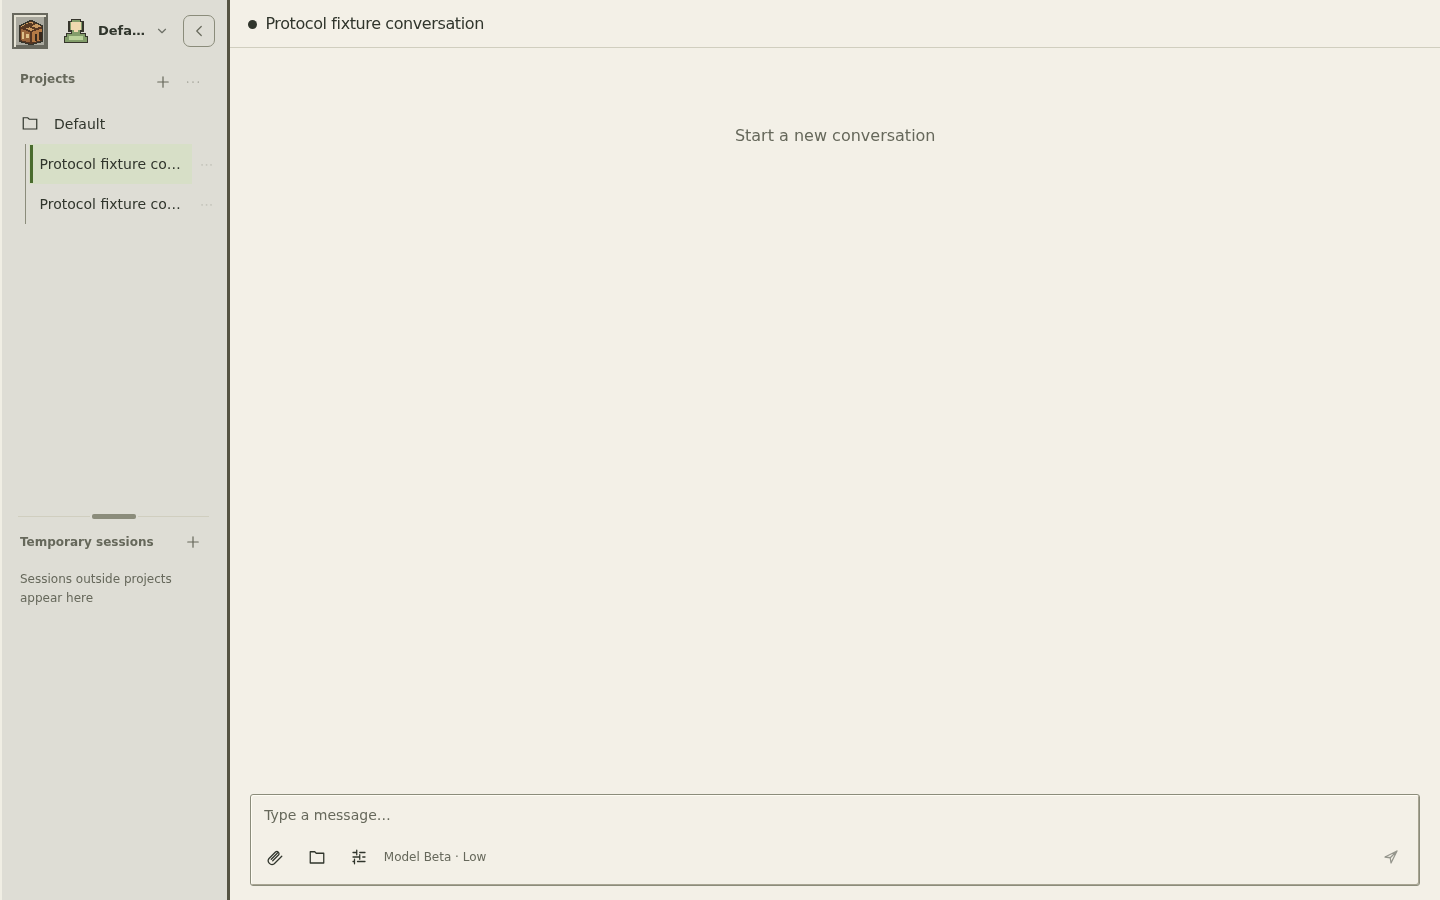
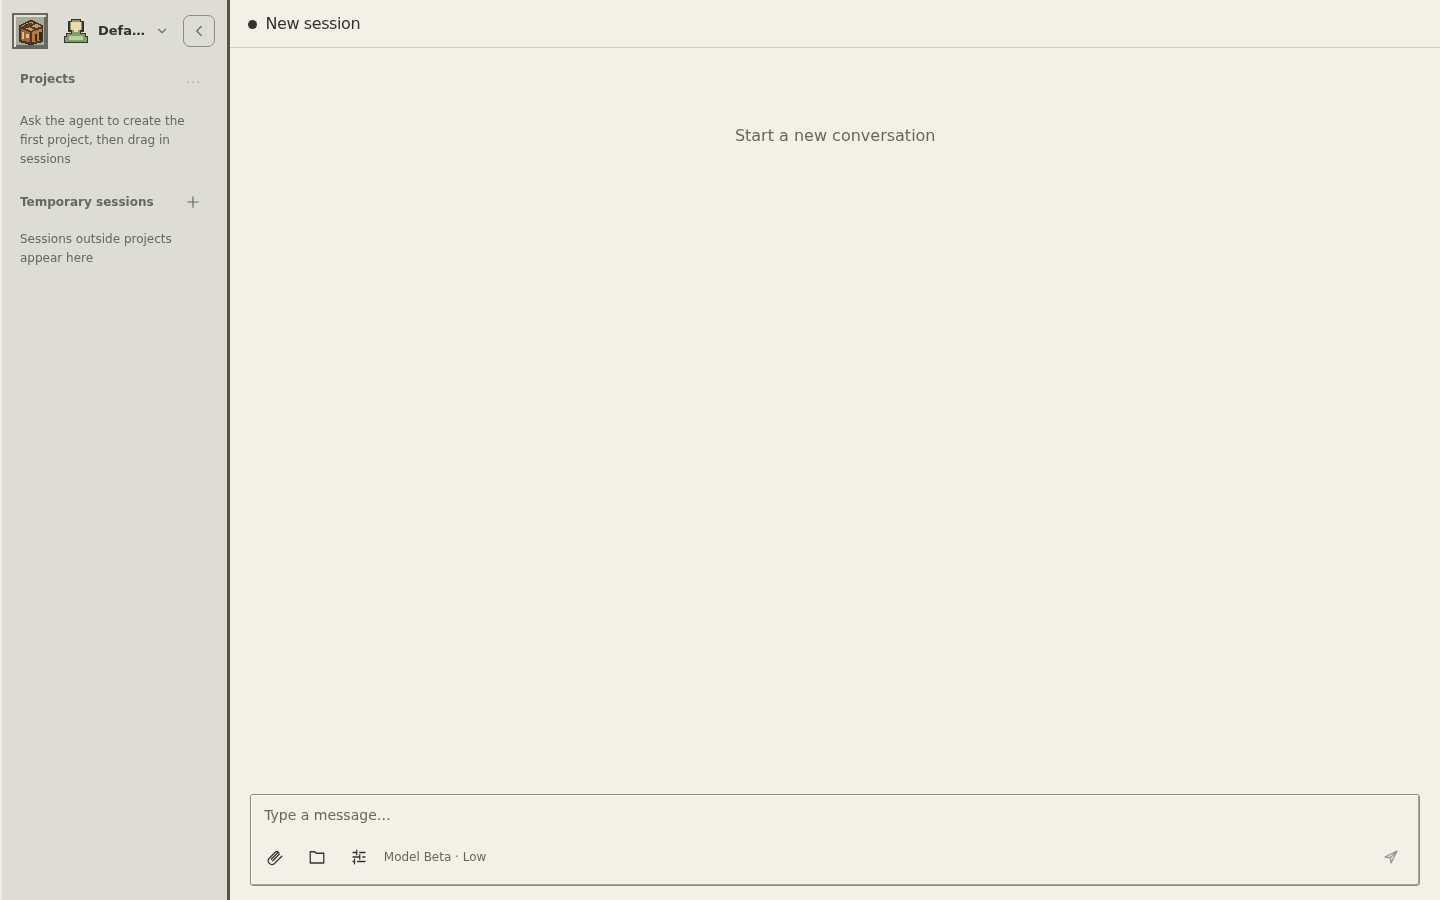
Keep new conversation controls within the selected model capabilities

diff --git a/dashboard/src/recovered-runtime.js b/dashboard/src/recovered-runtime.js
@@ -11217,7 +11217,7 @@ import { createProjectNavigation, PANE_DRAG_TYPE } from './project-navigation';
               try {
                 sc = await KL(i.fetchJSON, M, {
                   model: Bt || tf?.id,
-                  effort: Fi,
+                  effort: standalone && !tf?.efforts.length ? undefined : Fi,
                   serviceTier: pD,
                   fast: _n,
                   cwd: St?.path,

diff --git a/tests/browser/session-model-host.py b/tests/browser/session-model-host.py
@@ -24,7 +24,7 @@ spec.loader.exec_module(module)
 runtime = module.create_fixture()
 runtime.state.model_catalog = {'models': [
     {'id': ident, 'name': name, 'provider': 'fixture-provider', 'is_default': ident == 'model-alpha',
-     'reasoning': {'efforts': [{'id': 'low'}, {'id': 'high'}]}}
+     'reasoning': {'efforts': [] if ident == 'model-gamma' else [{'id': 'low'}, {'id': 'high'}]}}
     for ident, name in [('model-alpha', 'Model Alpha'), ('model-beta', 'Model Beta'), ('model-gamma', 'Model Gamma')]
 ], 'default': {'model': 'model-alpha', 'provider': 'fixture-provider'}}
 control = {'fail': False, 'writes': 0}
